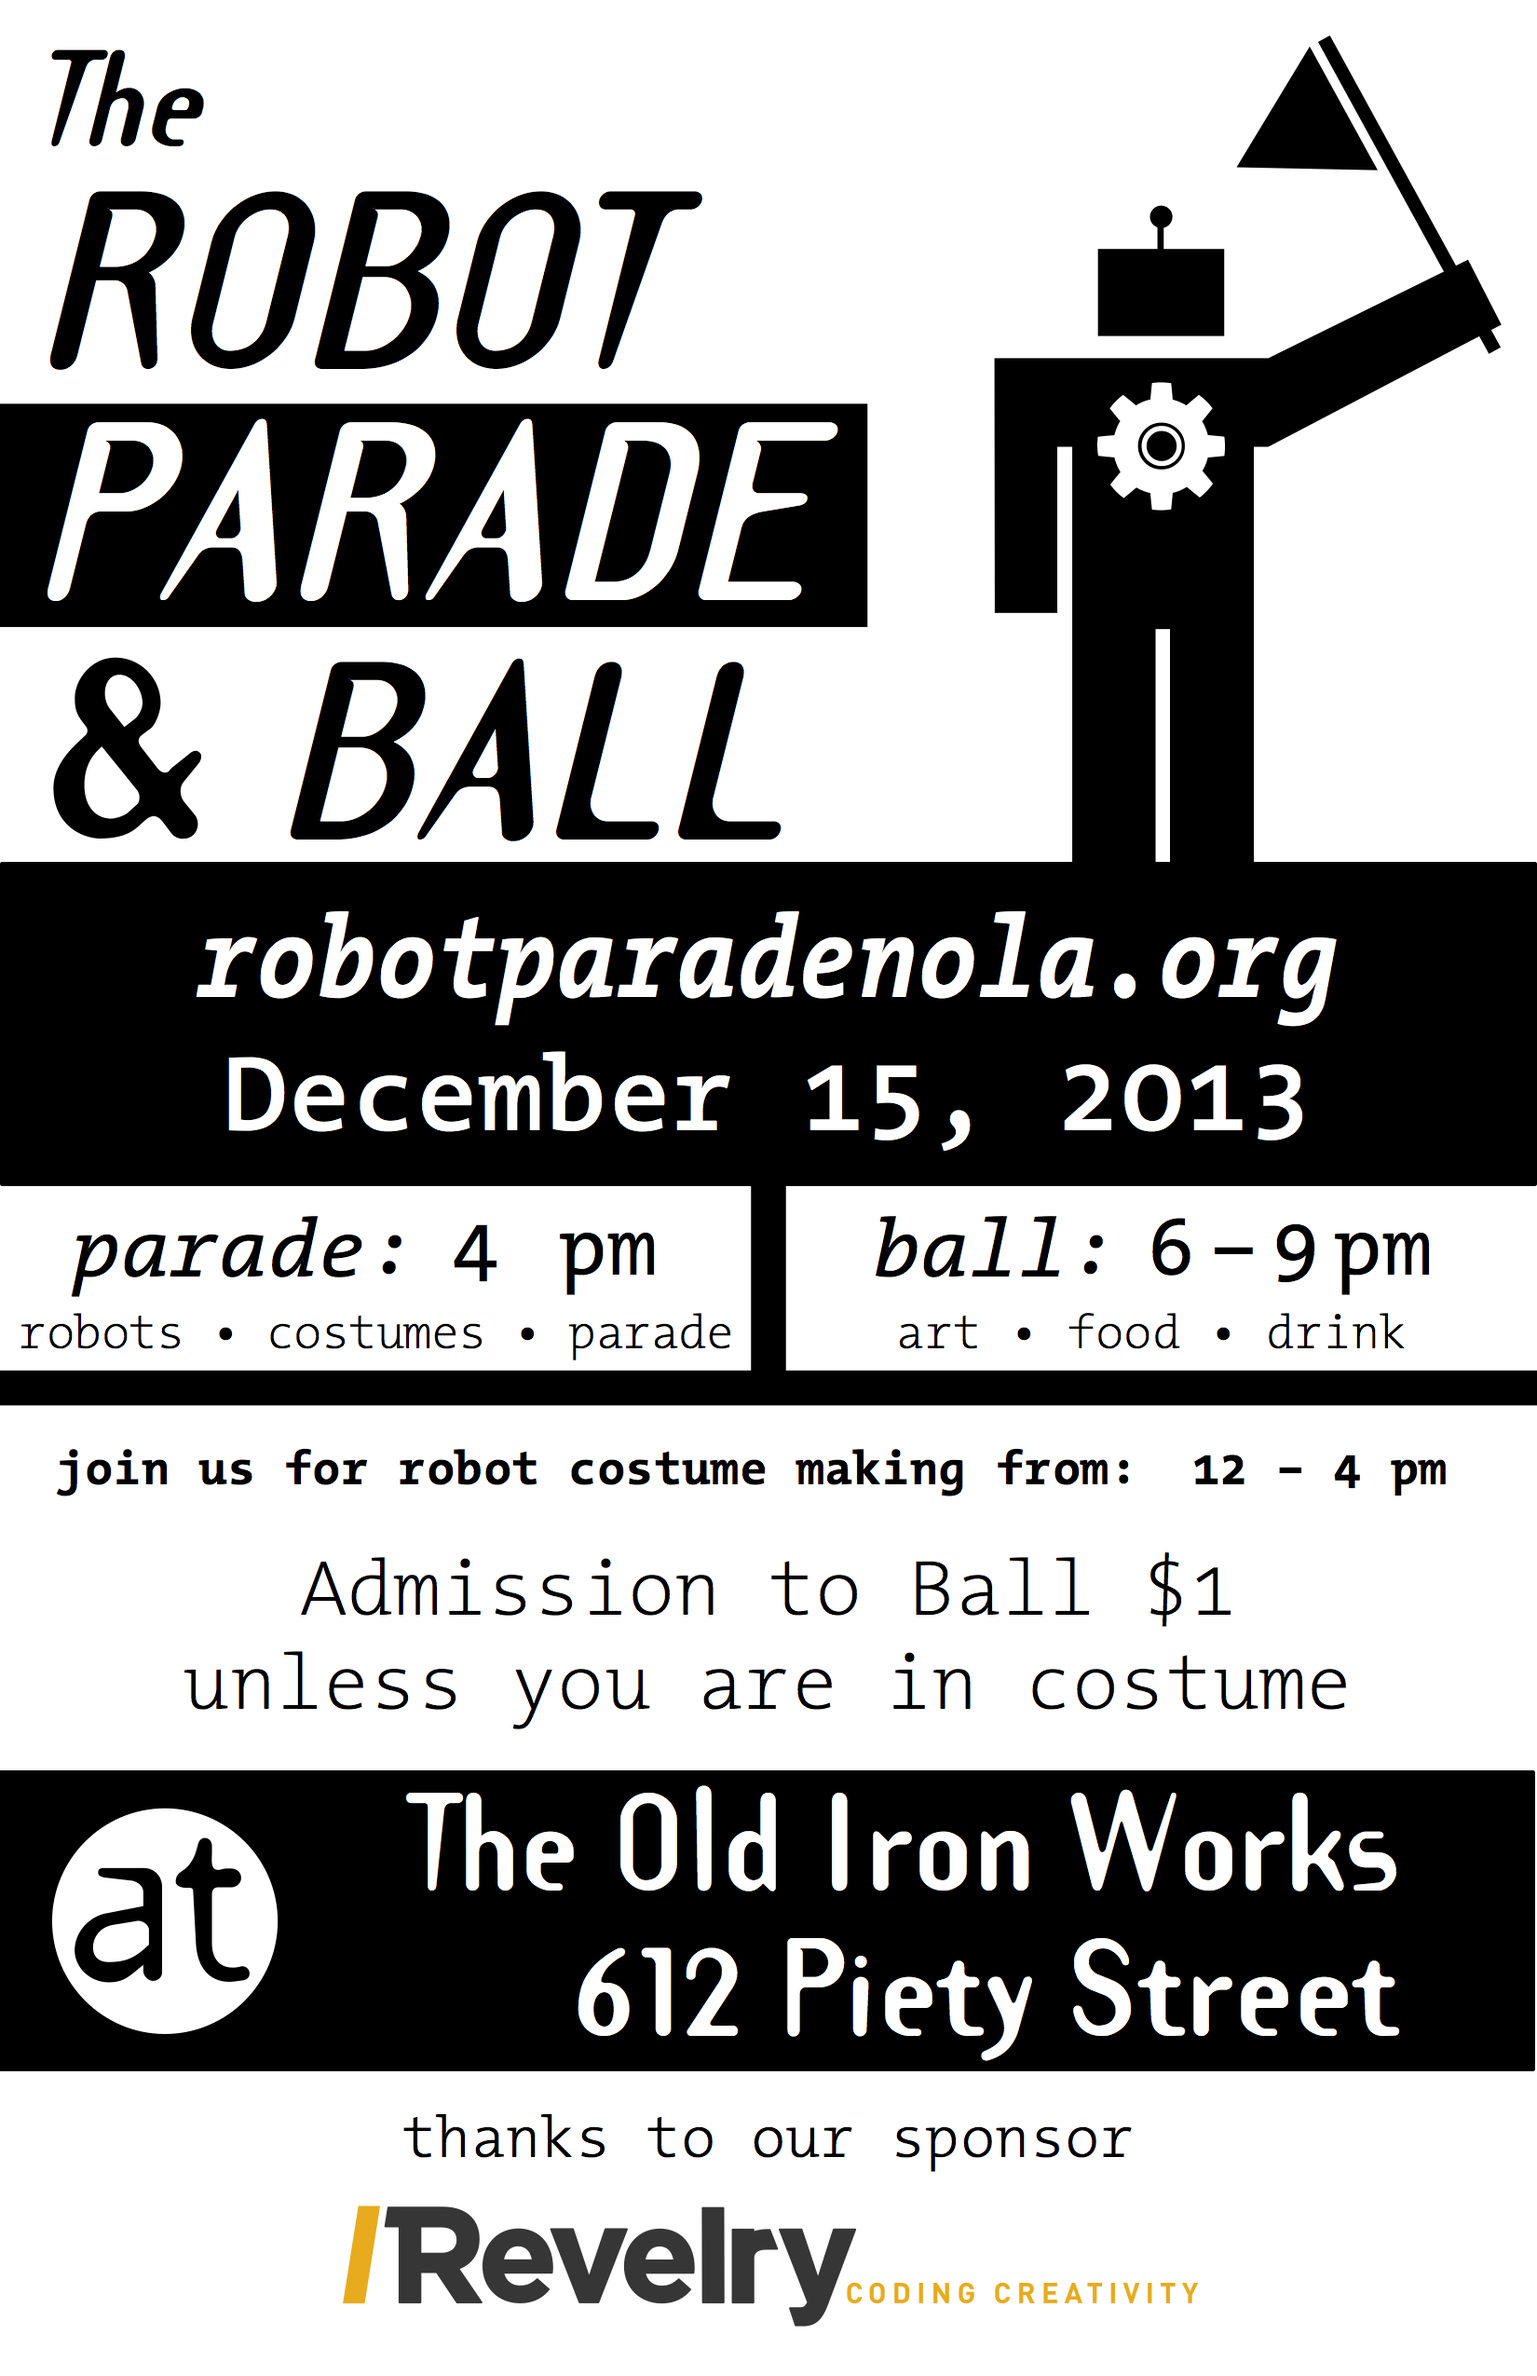
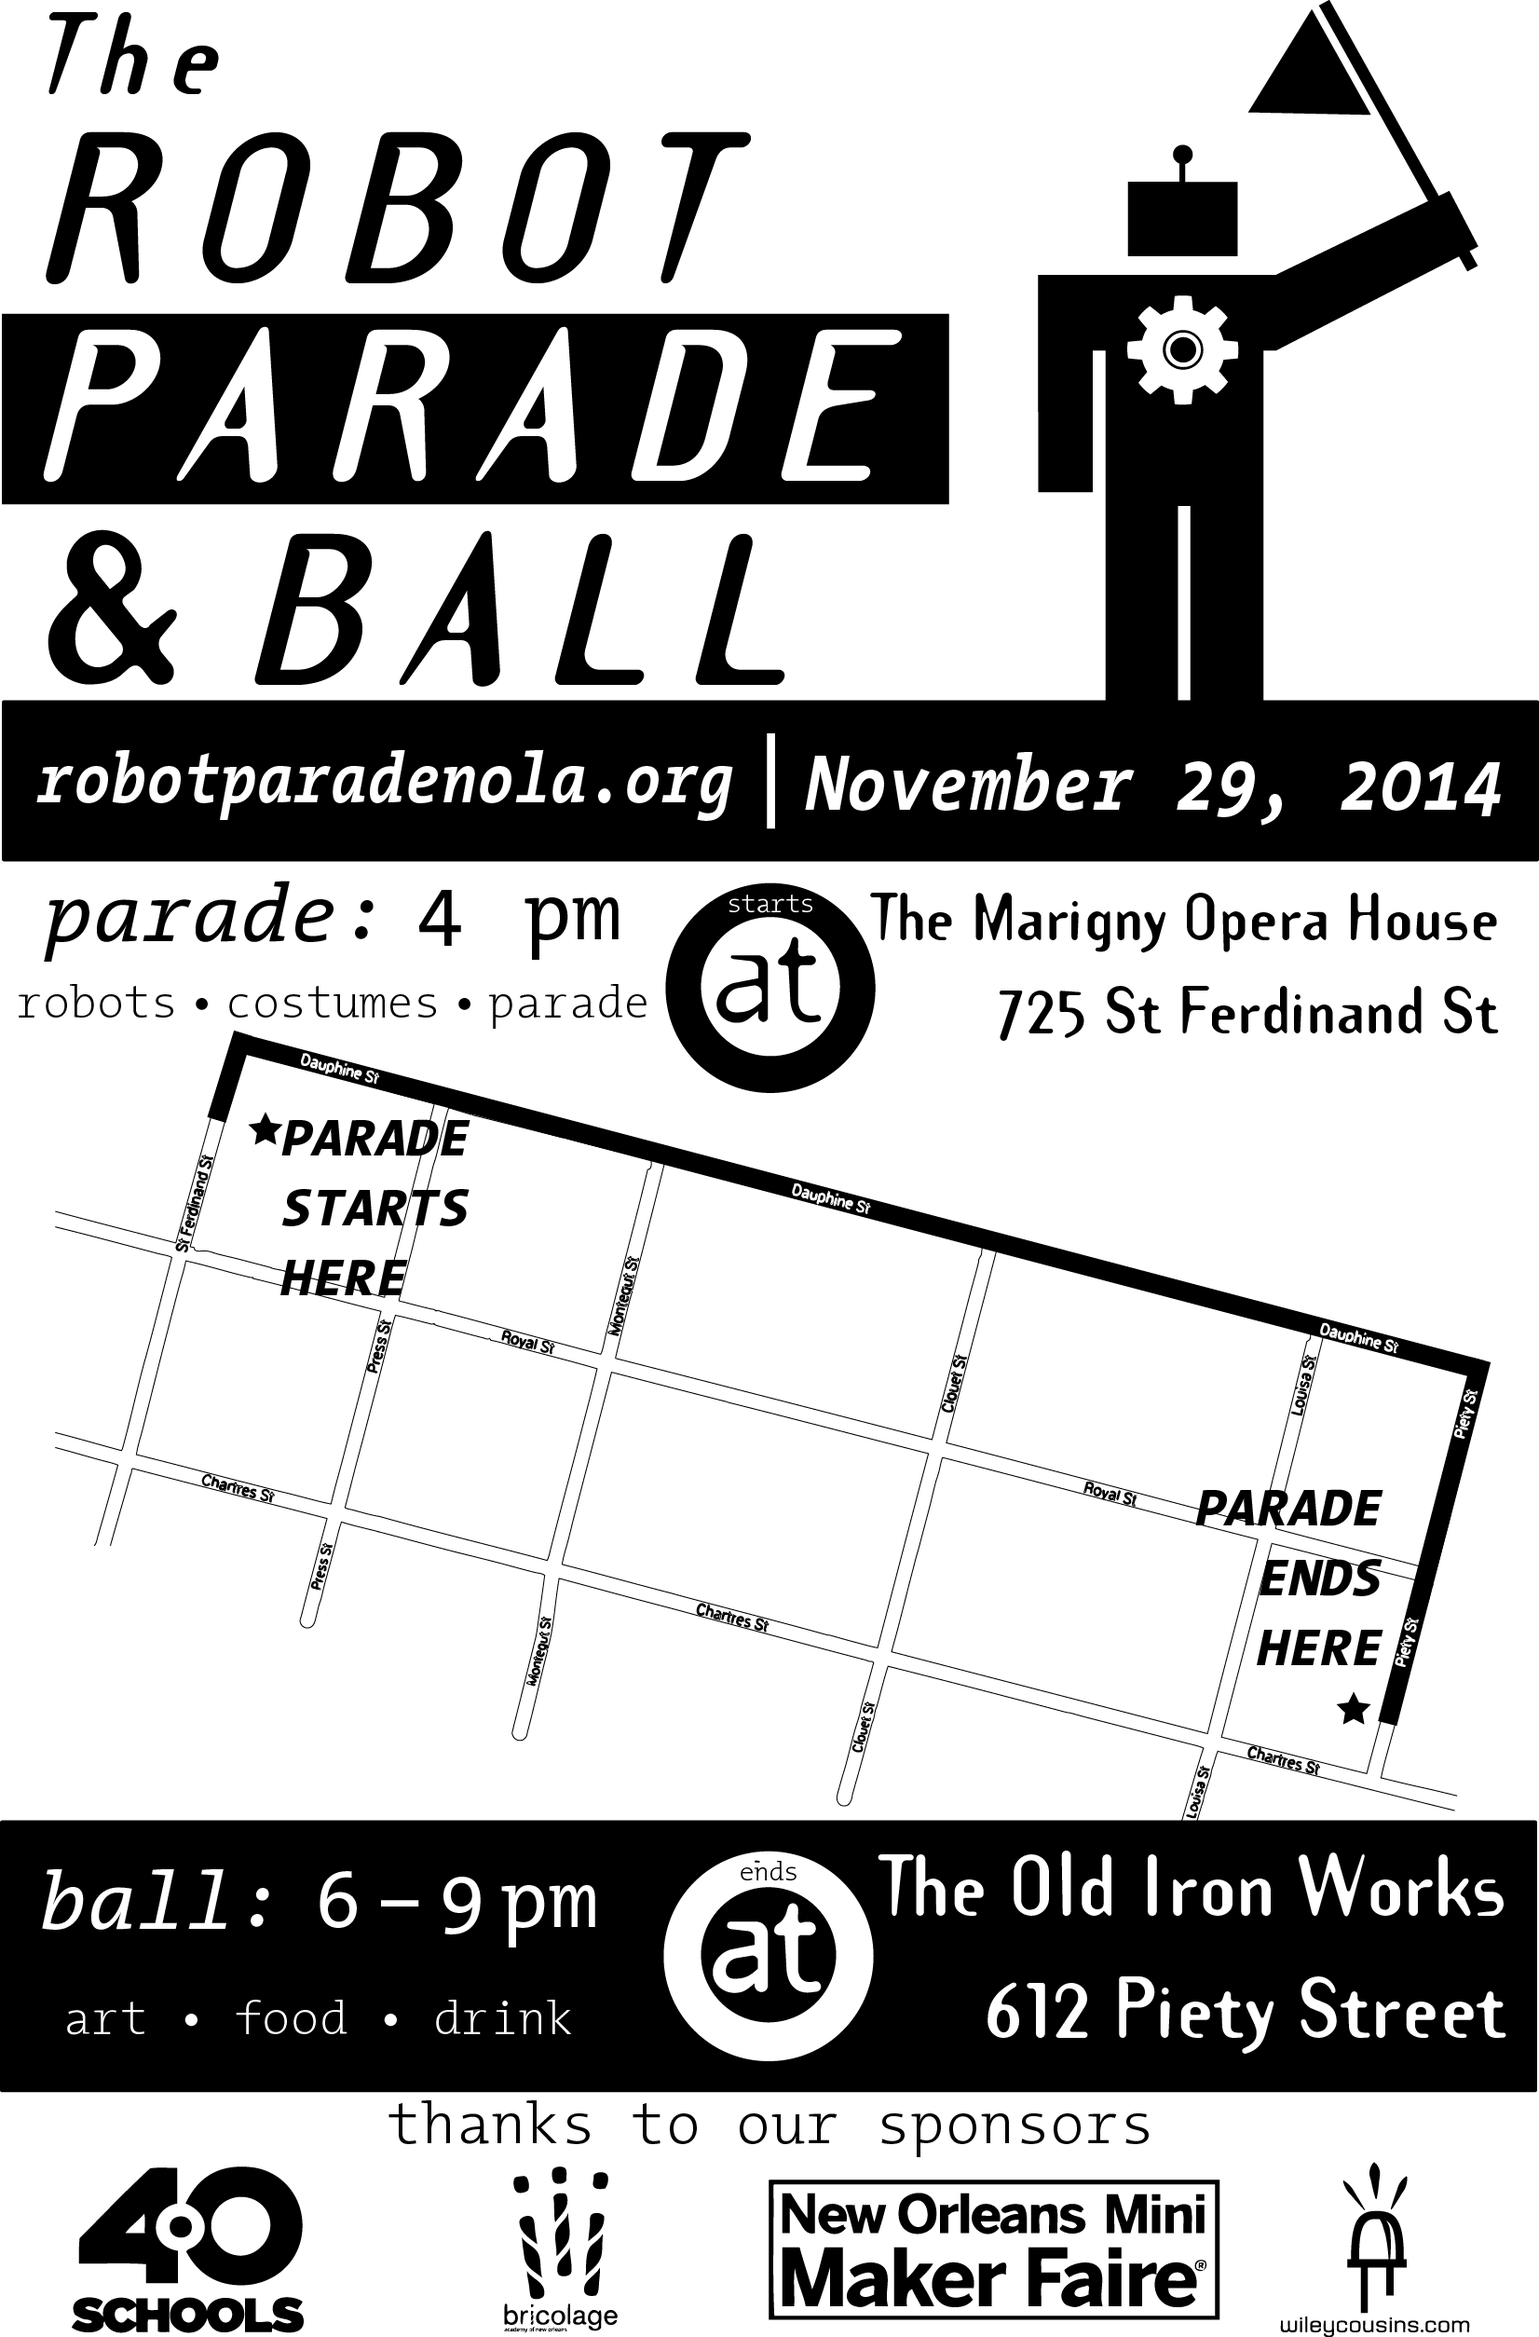
updated for 2014

diff --git a/index.html b/index.html
@@ -1,1 +1,1 @@
-<!DOCTYPE html><html><head><title>robot parade nola</title><link href="//netdna.bootstrapcdn.com/bootstrap/3.0.0/css/bootstrap.min.css" rel="stylesheet"><link href="/css/client.css" rel="stylesheet"><link rel="icon" type="image/x-icon" href="/img/fav.png"><meta name="description" content="The Robot Parade. New Orleans, LA"><meta name="keywords" content="maker, makers, hacker, hackers, robotics, hacking, making, nola, new orleans,  louisiana, parade, ball, robots, kinectic, art, sculpture"><meta name="author" content="H. Cole Wiley"></head><body><div class="container"><div class="row"><nav role="navigation" class="navbar navbar-inverse col-sm-8 col-sm-offset-2"><div><a href="http://blog.robotparadenola.org" class="navbar-brand">blog</a><a href="http://facebook.com/robotparadenola" class="navbar-brand">facebook</a><a href="http://www.flickr.com/photos/hcwiley/sets/72157632162866097/" class="navbar-brand">2012 images</a><a href="#contact" class="navbar-brand">contact</a></div></nav></div><div class="row"><a href="/"><div id="logo" class="col-sm-8 col-sm-offset-2"><h1 class="hidden">Robot Parade</h1><img src="/img/poster.png" title="The Robot Parade"></div></a></div><div class="row"><div class="col-sm-8 col-sm-offset-2 text-center"><strong class="text-center">this december, come celebrate the robot parade and ball!</strong><p>The Robot <span class='bold'>Parade</span> is a community event. We encourage everyone to dress in robot costume and parade through the Bywater with us. We will be hosting a costume making session for 4 hours immediately preceding the parade.</p><p>The Robot <span class='bold'>Ball</span> is a kinetic art show immediately following the parade. There is a $1 admission fee if you are not in costume or do not have a doubloon from the parade. There will be food, drink, and live music to accompany the art. We will also be crowning a King and Queen of the Robot Ball, so wear your best robotic attire if you want a shot.</p><p>Artists and makers are encouraged to make a robot to put in the parade. If you want to see what others in the community are working on, come to a Wednesday night <a href='http://makersofno.la'>Makers of NO meet-up</a>.</p><p>Artists who are interested in putting art up at the Ball should send an email to: <a href='mailto:robotparadenola@gmail.com'>robotparadenola@gmail.com</a></p></div></div><div class="row"><div class="col-sm-10 col-sm-offset-1"><br><hr><br></div></div><div id="contact" class="row"><div class="col-sm-6 col-sm-offset-3 text-center"><a href="mailto:robotparadenola@gmail.com" class="text-center"><p class="text-center">robotparadenola@gmail.com</p><img src="/img/email.svg" width="100px" class="text-center"></a></div></div></div></body></html>
+<!DOCTYPE html><html><head><title>robot parade nola</title><link href="//netdna.bootstrapcdn.com/bootstrap/3.0.0/css/bootstrap.min.css" rel="stylesheet"><link href="/css/client.css" rel="stylesheet"><link rel="icon" type="image/x-icon" href="/img/fav.png"><meta name="description" content="The Robot Parade. New Orleans, LA"><meta name="keywords" content="robot, maker, makers, hacker, hackers, robotics, hacking, making, nola, new orleans,  louisiana, parade, ball, robots, kinectic, art, sculpture"><meta name="author" content="H. Cole Wiley"></head><body><div class="container"><div class="row"><nav role="navigation" class="navbar navbar-inverse col-sm-8 col-sm-offset-2"><div><a href="http://facebook.com/robotparadenola" class="navbar-brand">facebook</a><a href="http://vimeo.com/82412250" class="navbar-brand">2013 movie</a><a href="http://www.flickr.com/photos/hcwiley/sets/72157632162866097/" class="navbar-brand">2012 images</a><a href="#contact" class="navbar-brand">contact</a></div></nav></div><div class="row"><a href="/"><div id="logo" class="col-sm-8 col-sm-offset-2"><h1 class="hidden">Robot Parade</h1><img src="/img/title.png" title="The Robot Parade"></div></a></div><div class="row"><div class="col-sm-8 col-sm-offset-2 text-center"><br></div></div><div class="row"><div class="col-sm-8 col-sm-offset-2 text-center"><strong class="text-center">this november, come celebrate the robot parade and ball!</strong><p>The Robot <span class='bold'>Parade</span> is a community event. We encourage everyone to dress in robot costume and parade through the Bywater with us. We will be hosting a costume making session for 4 hours immediately preceding the parade in conjunction with <a href='http://press-street.org/drawathon/'>Draw-a-thon</a>. The Parade is starting at <a href='https://www.google.com/maps/place/Marigny+Opera+House/@29.9647914,-90.0477018,18z/data=!4m2!3m1!1s0x0000000000000000:0xfa03e1597122118e', target='_blank'>The Marigny Opera House</a> and going to <a href='https://www.google.com/maps/place/612+Piety+St,+New+Orleans,+LA+70117/@29.9623192,-90.0431748,19z/data=!3m1!4b1!4m2!3m1!1s0x8620a631dfd38d3b:0xa617c93de3735c5b', target='_blank'>The Old Iron Works</a></p></div></div><div class="row"><div class="col-sm-8 col-sm-offset-2"><img src="/img/route-info.png" width="100%"></div></div><div class="row"><div class="col-sm-8 col-sm-offset-2 text-center"><br></div></div><div class="row"><div class="col-sm-8 col-sm-offset-2 text-center"><p>The Robot <span class='bold'>Ball</span> is an art show immediately following the parade that celebrates invention. Tthe Ball is from 6 to 9 pm where there will be decadent food from the lovely Tres Bernard of <a href='https://www.facebook.com/WeveGotSoul'>We’ve got Soul</a>, delicious beverages, live music, and of course amazing art.. The atmosphere of the Ball is somewhere between art opening, science fair, and circus. </p><p>Artists and makers are encouraged to make a robot to put in the parade. If you want to see what others in the community are working on, come to a Thursday night <a href='http://makersofno.la'>Makers of NO meet-up</a>.</p><p>Artists who are interested in putting art up at the Ball should send an email to: <a href='mailto:robotparadenola@gmail.com'>robotparadenola@gmail.com</a></p></div></div><div class="row"><div class="col-sm-8 col-sm-offset-2 text-center"><br></div></div><div class="row"><div class="col-sm-10 col-sm-offset-1"><h5 class="text-center">thanks to our sponsors</h5><div class="col-md-3 col-sm-6"><a href="http://4pt0.org/"><div class="col-xs-10 col-xs-offset-1"><img src="/img/4pt0schools.png" class="img-thumbnail"></div></a></div><div class="col-md-3 col-sm-6"><a href="https://wileycousins.com"><div class="col-xs-10 col-xs-offset-1"><img src="/img/wileycousins.png" class="img-thumbnail"></div></a></div><div class="col-md-3 col-sm-6"><a href="http://www.bricolagenola.org/"><div class="col-xs-10 col-xs-offset-1"><br><img src="/img/bricolage.png" class="img-thumbnail"></div></a></div><div class="col-md-3 col-sm-6"><a href="http://nolamakerfaire.com/"><div class="col-xs-10 col-xs-offset-1"><br><img src="/img/New-Orleans_MMF.png" class="img-thumbnail"></div></a></div></div></div><div class="row"><div class="col-sm-8 col-sm-offset-2 text-center"><br></div></div><div class="row"><div class="col-sm-10 col-sm-offset-1"><br><hr><br></div></div><div id="contact" class="row"><div class="col-sm-6 col-sm-offset-3 text-center"><a href="mailto:robotparadenola@gmail.com" class="text-center"><p class="text-center">robotparadenola@gmail.com</p><img src="/img/email.svg" width="100px" class="text-center"></a></div></div></div></body></html>

diff --git a/css/client.css b/css/client.css
@@ -48,7 +48,7 @@ strong {
   height: auto;
 }
 nav div {
-  width: 400px;
+  width: 490px;
   margin: 0 auto;
 }
 nav a {
@@ -72,4 +72,9 @@ nav a:last-child {
 }
 .bold {
   font-weight: bold;
+}
+img.img-thumbnail {
+  border: none;
+  max-width: 300px;
+  width: 100%;
 }
